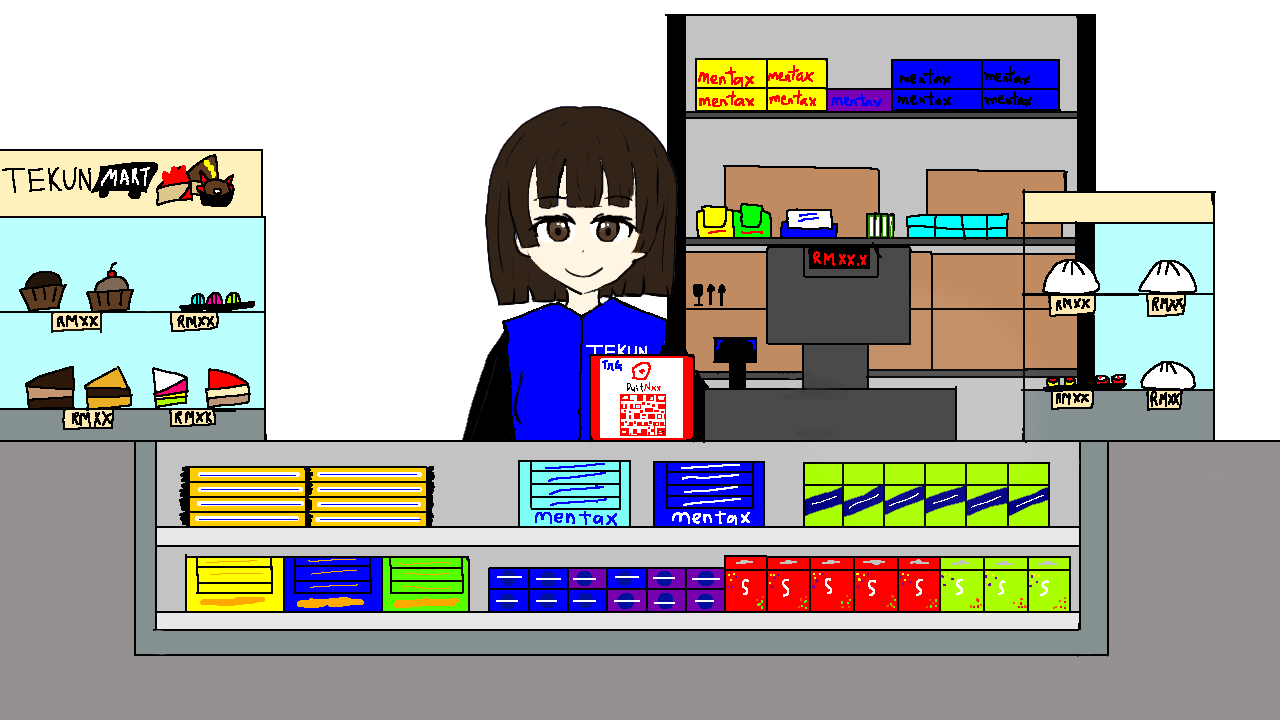
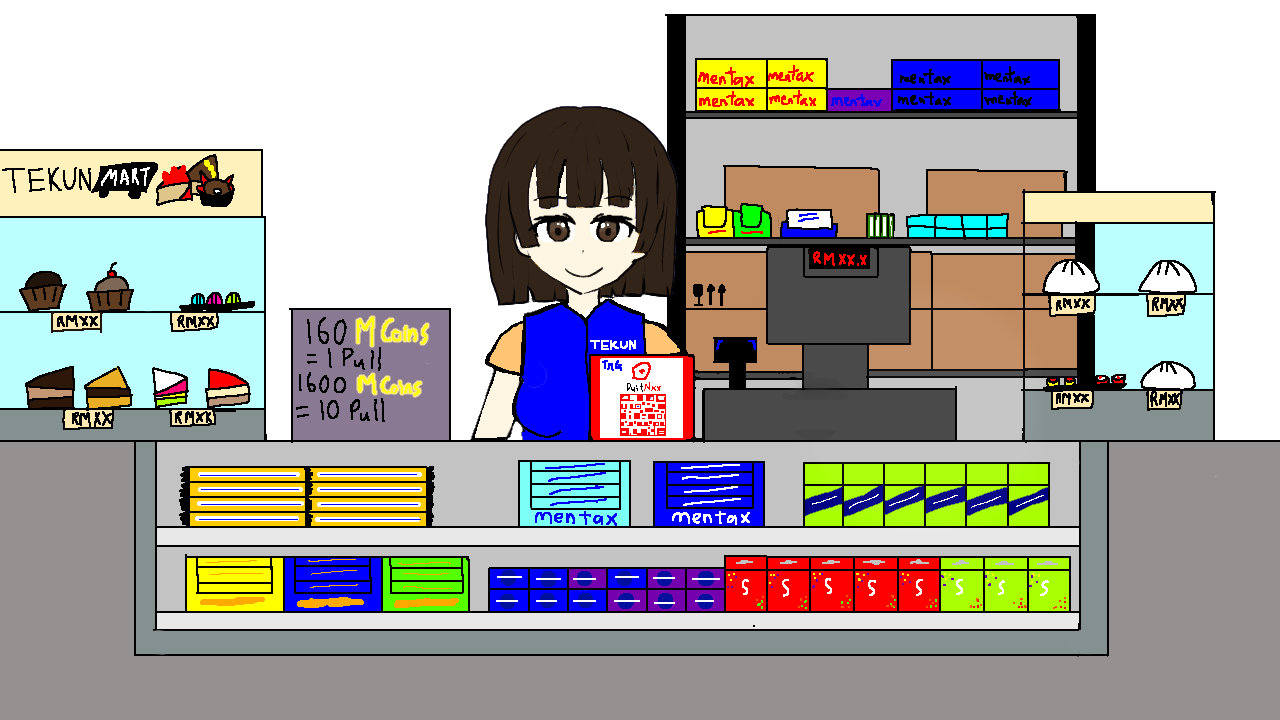
week8

Changed region(s): [[0.2188, 0.4278, 0.5312, 0.6111], [0.5312, 0.5194, 0.5625, 0.6111], [0.4688, 0.3972, 0.5, 0.4278]]

diff --git a/gacha_animation/animation.py b/gacha_animation/animation.py
@@ -38,6 +38,9 @@ Black_card_img = pygame.transform.scale(pygame.image.load('Black_card.png'), (im
 Underwear_img = pygame.transform.scale(pygame.image.load('Underwear.png'), (image_width, image_height))
 Koi_fish_img = pygame.transform.scale(pygame.image.load('Koi_fish.png'), (image_width, image_height))
 
+One_pull_img = pygame.transform.scale(pygame.image.load('One_pull.png'), (200, 100))
+Ten_pull_img = pygame.transform.scale(pygame.image.load('Ten_pull.png'), (200, 100))
+
 item_descriptions = {
     "Rice": "You found the only food can eat in campus, but you also don't want to eat this if you can eat outside.",
     "Coffee": "This coffee give you energy for a day. No sleepy lectures anymore!",
@@ -171,9 +174,29 @@ def draw_wrapped_text(text, font, color, x, y, max_width):
     if current_line:
         lines.append(current_line.strip())
     
+    # 计算文本实际需要的最大宽度
+    max_line_width = max(font.size(line)[0] for line in lines) if lines else 0
+    
+    # 计算总高度
+    line_height = font.get_linesize()
+    total_height = len(lines) * line_height
+    
+    # 绘制边框背景（调整这些数字来改变边框大小）
+    border_padding = 15  # 边框与文字的间距
+    border_rect = pygame.Rect(
+        x - max_line_width//2 - border_padding,  # 左边位置
+        y - border_padding,                      # 上边位置
+        max_line_width + border_padding*2,       # 宽度
+        total_height + border_padding*2          # 高度
+    )
+    
+    pygame.draw.rect(window, (255, 255, 255), border_rect)  # 白色背景
+    pygame.draw.rect(window, (0, 0, 0), border_rect, 2)     # 黑色边框
+    
+    # 绘制文本
     for i, line in enumerate(lines):
         text_surf = font.render(line, True, color)
-        text_rect = text_surf.get_rect(center=(x, y + i * font.get_linesize()))
+        text_rect = text_surf.get_rect(center=(x, y + i * line_height))
         window.blit(text_surf, text_rect)
 
 def draw_button(text, x, y, w, h, color):
@@ -207,6 +230,8 @@ def animation():
     effect_center = (width // 2, height // 2)
     effect_color = (0, 0, 0)
     result_displayed = False
+    confirm_dialog = None 
+
 
     while running:
         mouse_clicked = False
@@ -252,16 +277,55 @@ def animation():
                     result_displayed = False
 
         else:
-            One_pull = draw_button("1 pull", 240, 550, 200, 100, (200, 30, 30))
+            One_pull = window.blit(One_pull_img,(240,550))
             
-            Ten_pull = draw_button("10 pull", 840, 550, 200, 100, (30, 200, 120))
+            Ten_pull = window.blit(Ten_pull_img, (840, 550))
+
+            if confirm_dialog:
+                overlay = pygame.Surface((width, height))
+                overlay.set_alpha(128)
+                overlay.fill((0, 0, 0))
+                window.blit(overlay, (0, 0))
+
+                dialog_rect = pygame.Rect(width//2 - 250, height//2 - 100, 500, 200)
+                pygame.draw.rect(window, (255, 255, 255), dialog_rect)
+                pygame.draw.rect(window, (0, 0, 0), dialog_rect, 3)
+
+                if confirm_dialog == "one":
+                    prompt_text = "Spend 160 M Coins for one pull?"
+                else:
+                    prompt_text = "Spend 1600 M Coins for ten pulls?"
+                draw_text(prompt_text, font, (0, 0, 0), width//2, height//2 - 50)
+
+
+                confirm_button = pygame.Rect(width//2 - 120, height//2 + 30, 100, 40)
+                cancel_button = pygame.Rect(width//2 + 20, height//2 + 30, 100, 40)
+                pygame.draw.rect(window, (0, 200, 0), confirm_button)
+                pygame.draw.rect(window, (200, 0, 0), cancel_button)
+
+                draw_text("Confirm", font, (255, 255, 255), confirm_button.centerx, confirm_button.centery)
+                draw_text("Cancel", font, (255, 255, 255), cancel_button.centerx, cancel_button.centery)
+
 
             if mouse_clicked:
-                if One_pull:
-                    gacha.set_pull(1)
-                    gacha.one_pull = True
-                elif Ten_pull:
-                    gacha.set_pull(10)
+                if confirm_dialog:
+                    if confirm_button.collidepoint(pygame.mouse.get_pos()):
+                        if confirm_dialog == "one":
+                            gacha.set_pull(1)
+                            gacha.one_pull = True
+                        elif confirm_dialog == "ten":
+                            gacha.set_pull(10)
+                            gacha.one_pull = False
+                        confirm_dialog = None  
+                    elif cancel_button.collidepoint(pygame.mouse.get_pos()):
+                        confirm_dialog = None  
+                else:
+                    if One_pull.collidepoint(pygame.mouse.get_pos()):
+                        confirm_dialog = "one"
+                    elif Ten_pull.collidepoint(pygame.mouse.get_pos()):
+                        confirm_dialog = "ten"
+
+
 
             if gacha.pull_remaining > 0:
                 result = gacha.pull()
